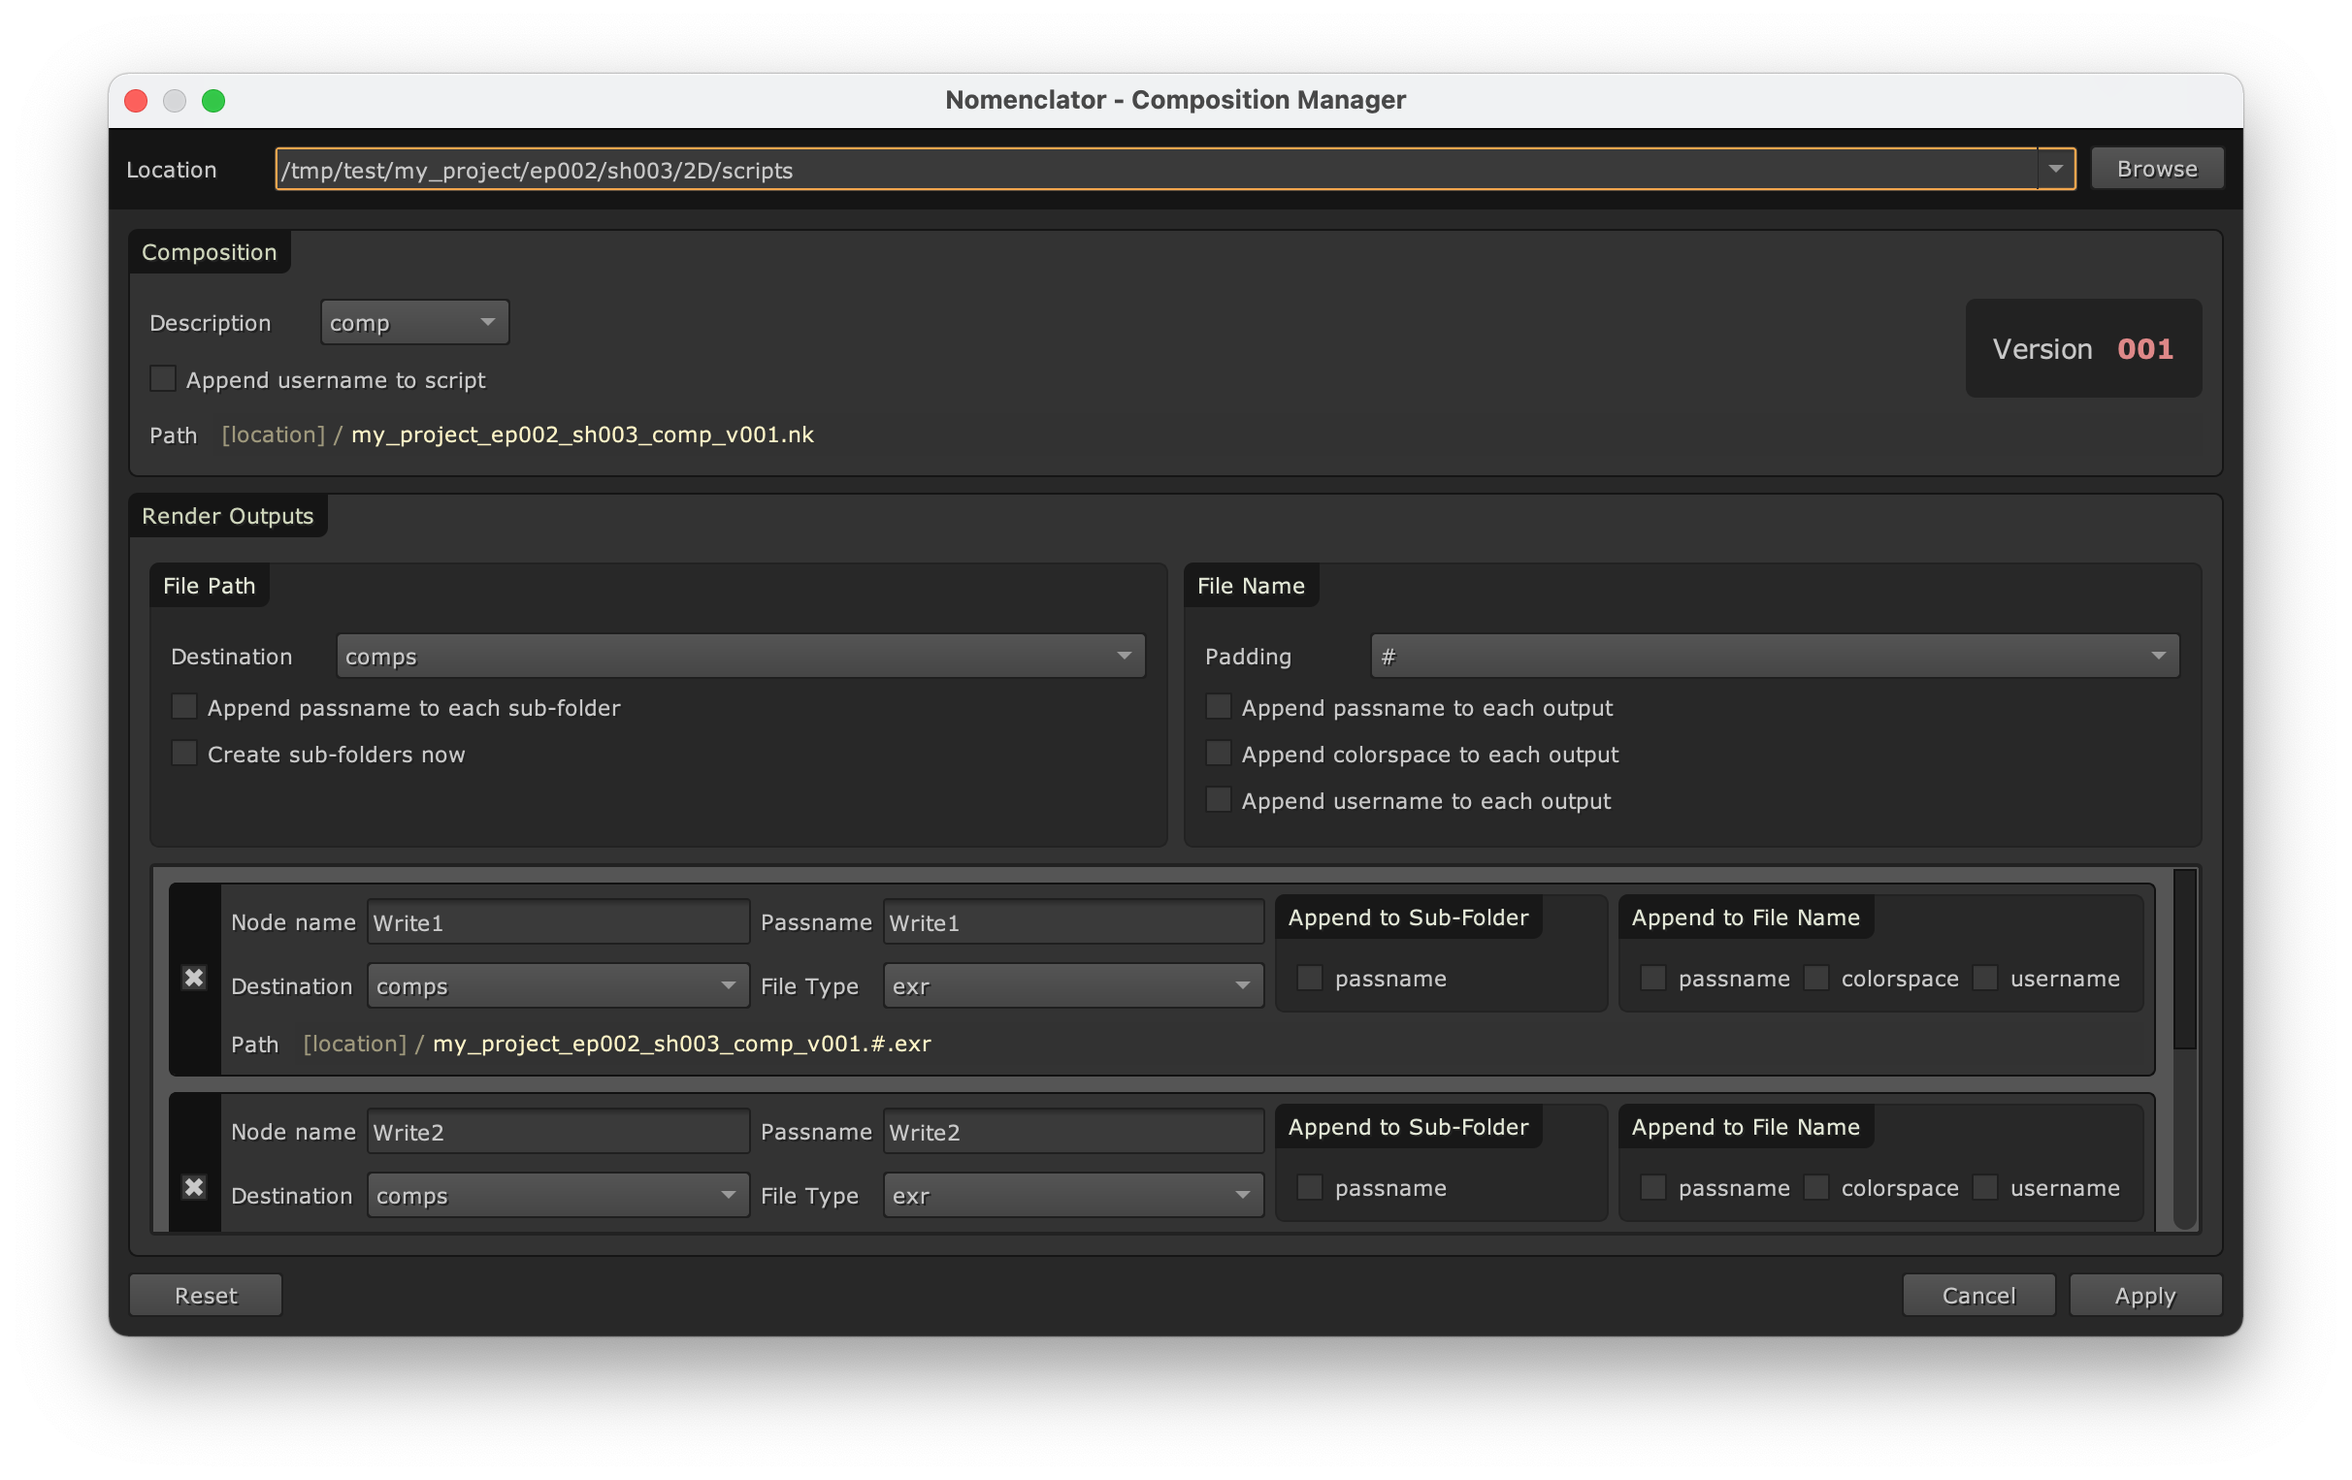
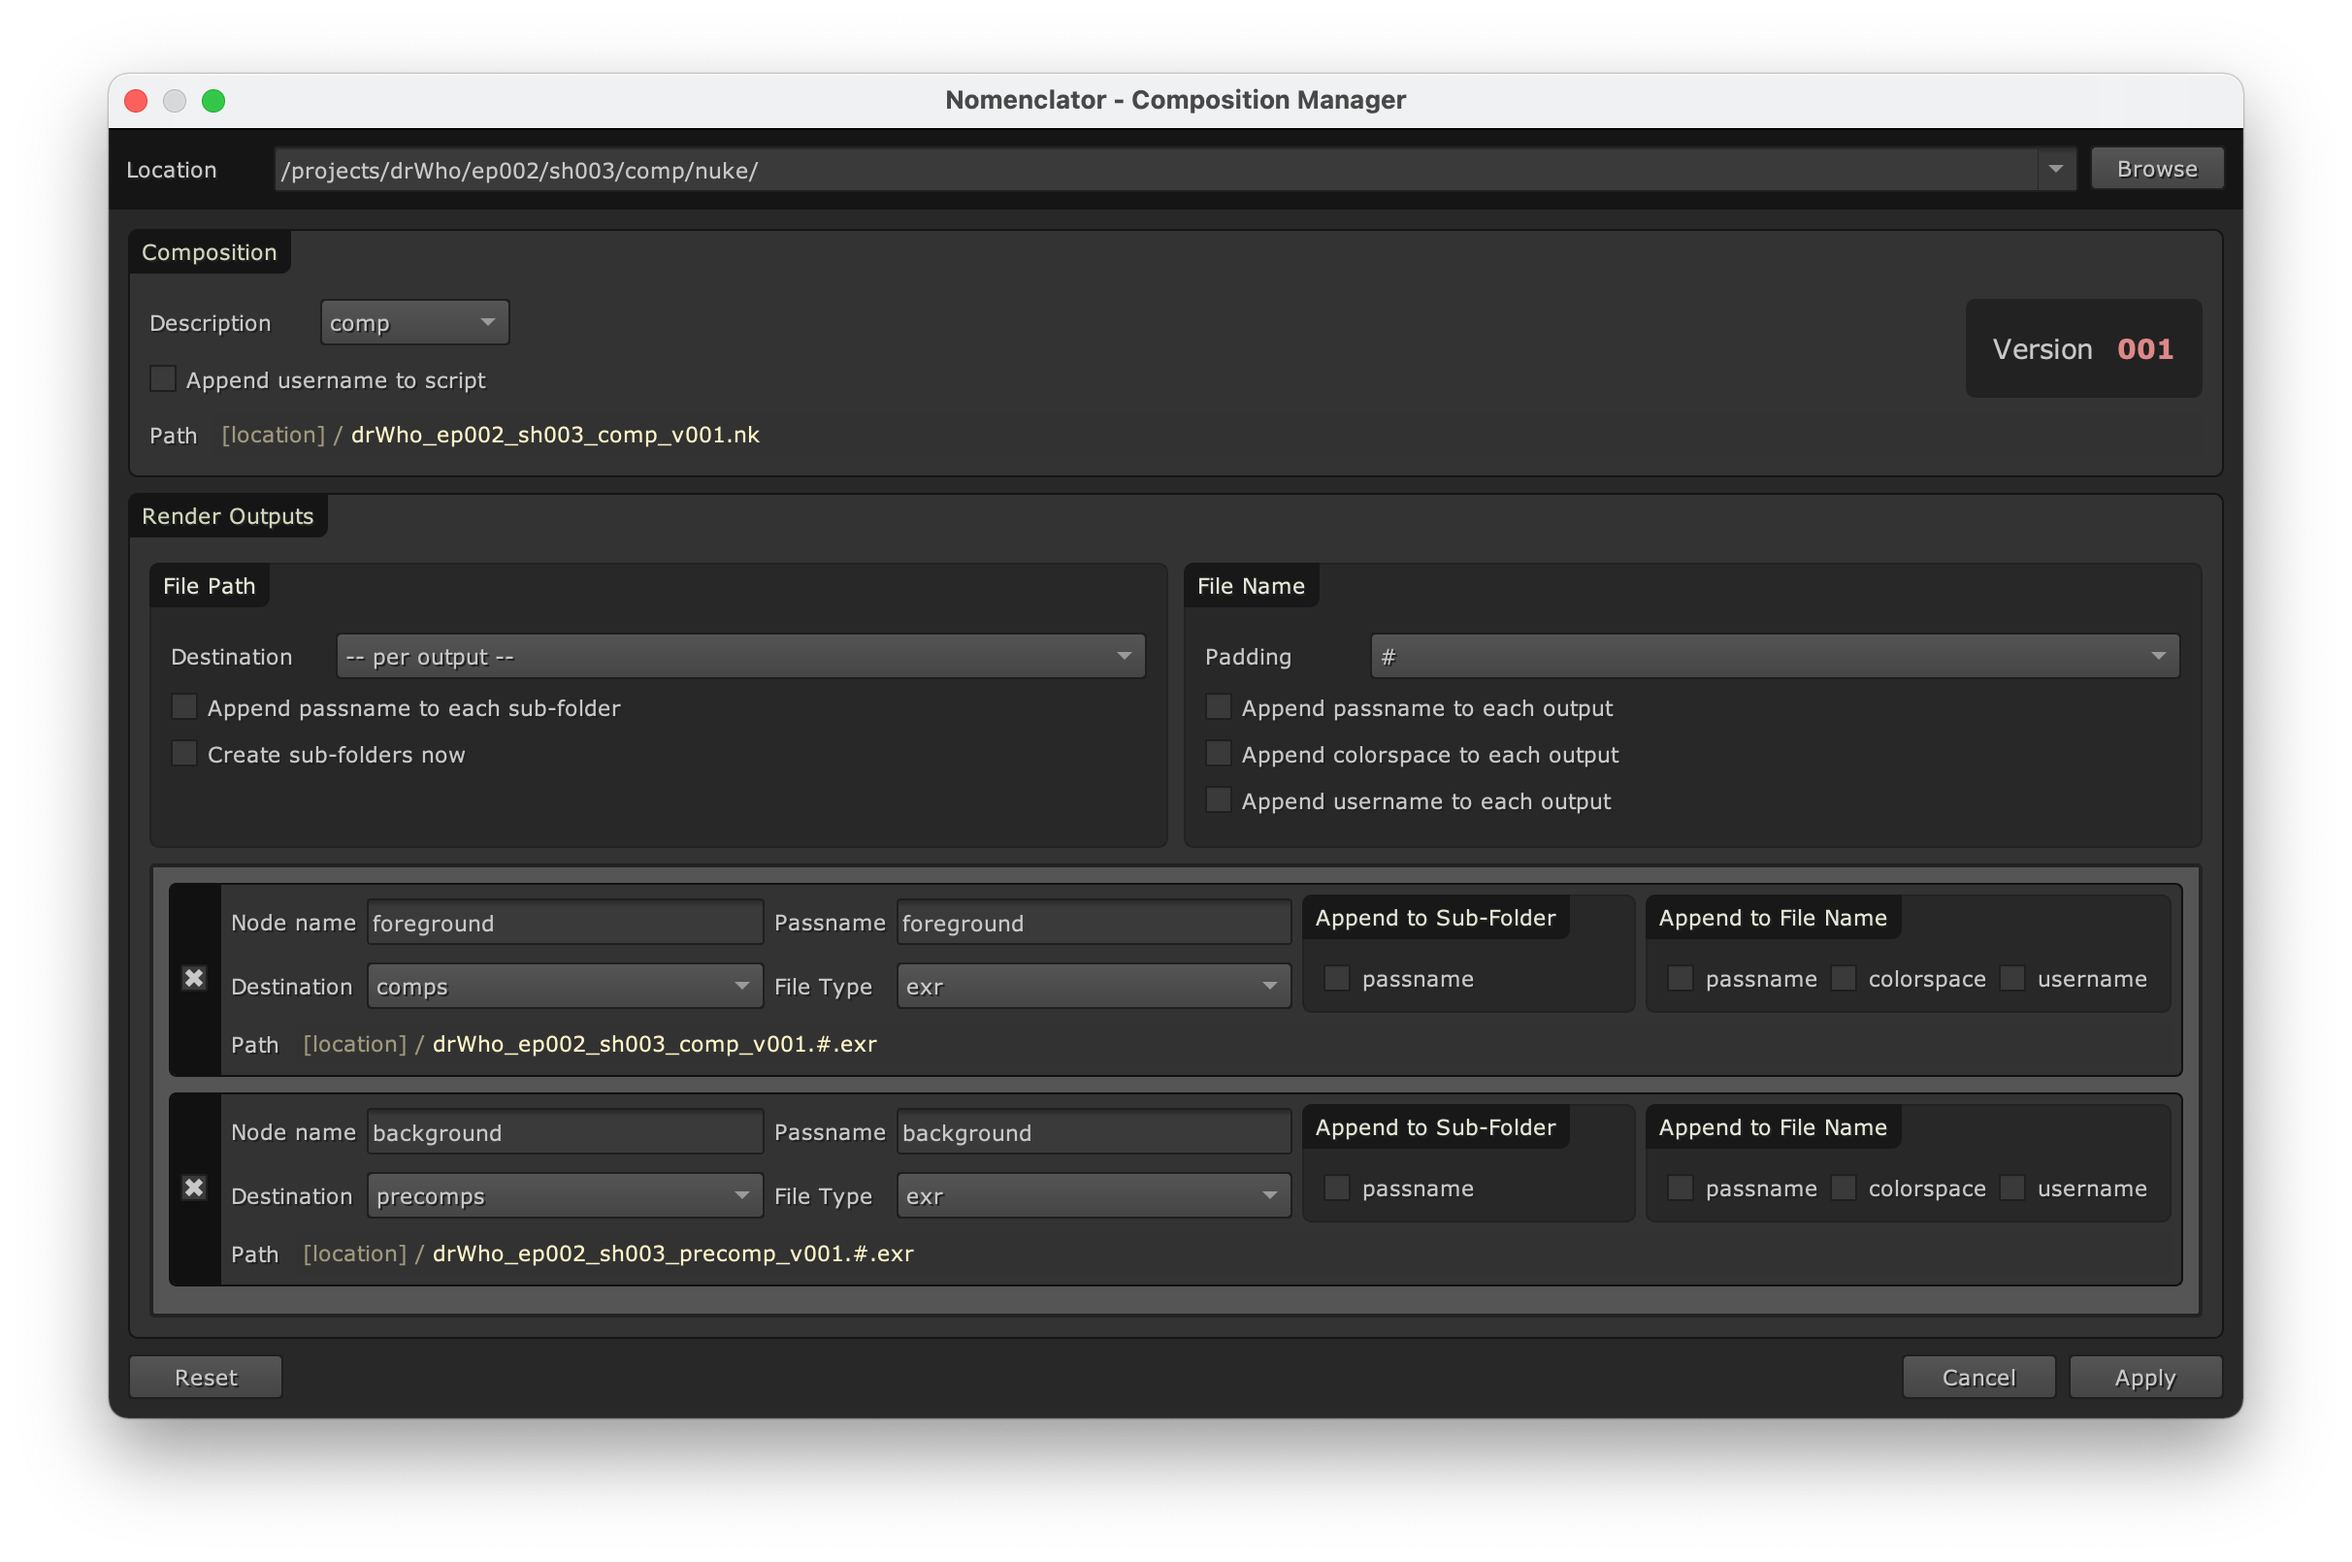
Update tutorial

Changed region(s): [[0.0309, 0.154, 0.9592, 0.924], [0.0309, 0.0616, 0.9592, 0.154], [0.8354, 0.2156, 0.9282, 0.2464]]

diff --git a/doc/tutorial.rst b/doc/tutorial.rst
@@ -13,9 +13,9 @@ and you are working within the following folder structure::
     /projects/
      |- drWho
          |- build
-         |- conform
-         |   |- hiero
          |- ep001
+             |- conform
+             |   |- hiero
              |- sh001
                  |- comp
                      |- nuke
@@ -28,11 +28,11 @@ For instance::
 
     /projects/drWho/ep001/sh001/comp/nuke
 
-There is one :term:`Conforming` task for the entire project. Therefore, the :term:`Hiero`
-project files must be saved at the project level, within the :file:`conform/hiero`
-folder::
+The :term:`Conforming` tasks are broken down in episodes only. For each episode,
+the :term:`Hiero` project files must be saved into the :file:`conform/hiero` folders.
+For instance::
 
-    /projects/drWho/conform/hiero
+    /projects/drWho/ep001/conform/hiero
 
 Instead of hard-coding the project name, we would like to define a naming convention which could
 easily be adapted to a new project which would adopt a similar structure.
@@ -97,12 +97,18 @@ custom regular expression for the ``episode`` and ``shot`` tokens::
     naming convention can be applied to scenes saved in sub-folders, for
     instance::
 
-        /projects/drWho/ep001/sh001/2D/nuke/sub-1/sub-2
+        /projects/drWho/ep001/sh001/comp/nuke/test
 
 This is how the settings dialog should look like:
 
 .. image:: ./image/comp-resolver-2.png
     :alt: Comp Resolver with one template
+
+.. note::
+
+    If more than one comp template is defined, the first matching one will be used.
+
+.. _tutorial/output_templates:
 
 Defining output templates
 -------------------------
@@ -162,15 +168,83 @@ This is how the settings dialog should look like:
 .. image:: ./image/comp-resolver-3.png
     :alt: Comp Resolver with two output templates
 
-Saving the configuration
-------------------------
+.. _tutorial/project_template:
 
-Apply to automatically save the new configuration into :file:`~/.nuke/nomenclator.toml`.
+Defining a project template
+---------------------------
+
+Let's create a :ref:`template <configuration/template>` to define the naming
+convention for the :term:`Conforming` task.
+
+Open the Setting Dialog and click on the "Project Resolvers" tab to create the template.
+
+.. image:: ./image/project-resolver-1.png
+    :alt: Project Resolver Empty
+
+Click on the "+" button on the top-right corner to add a new template which
+is automatically named "Project1".
 
 .. note::
 
-    You could save the configuration into another location by using the
-    :envvar:`NOMENCLATOR_CONFIG_PATH` environment variable.
+    You can edit the name by double clicking on the "Project1" tab. You would
+    then be able to type a new name and click enter to apply it. We will
+    keep the automatic "Project1" name in this tutorial.
+
+We want the :term:`Hiero` project files to be named in the form of::
+
+    drWho_ep001_v001.hrox
+
+Therefore, the :ref:`configuration/template/pattern-base` value should be::
+
+    {project}_{episode}_v{version}
+
+The ``project`` and ``episode`` tokens should be :ref:`extracted <token/extracted>` from
+the folder structure. For instance, let's consider the following location::
+
+    /projects/drWho/ep001/conform/hiero
+
+The resolved tokens should be:
+
+==========  ==============
+Token Name  Resolved Value
+==========  ==============
+project     drWho
+episode     ep001
+==========  ==============
+
+Therefore, the :ref:`configuration/template/pattern-path` value should be::
+
+    /projects/{project}/{episode}/conform/hiero
+
+Like for the :term:`Compositing` tasks, we can prevent any matching error by defining
+custom regular expression for the ``episode`` token::
+
+    /projects/{project}/{episode:ep\d+}/conform/hiero
+
+We will also check the :ref:`configuration/template/append-username-to-name` box so that we
+can automatically add the :ref:`token/default/username` token to the base name.
+
+This is how the settings dialog should look like:
+
+.. image:: ./image/project-resolver-2.png
+    :alt: Project Resolver with one template
+
+.. note::
+
+    If more than one project template is defined, the first matching one will be used.
+
+.. _tutorial/saving:
+
+Saving the configuration
+------------------------
+
+Apply to automatically save the new :ref:`configuration <configuration>` into
+:file:`~/.nuke/nomenclator.toml`.
+
+.. note::
+
+    You could save the configuration into another location when you have writing permissions
+    by using the :envvar:`NOMENCLATOR_CONFIG_PATH` environment variable.
 
 This is how the configuration saved should look like:
 
@@ -182,28 +256,35 @@ This is how the configuration saved should look like:
     You can directly edit the :term:`TOML` configuration and send it to
     a team member to share it.
 
+.. _tutorial/managing-comp:
+
 Managing the composition
 ------------------------
 
 Now you can open a new :term:`Nuke` script and create two Write nodes.
 
-.. image:: ./image/unsaved-comp.png
+.. image:: ./image/comp-1.png
     :alt: Unsaved Comp
 
 Open the Comp Manager Dialog and browse to::
 
-    /projects/my_project/ep002/sh003/2D/scripts/
+    /projects/drWho/ep002/sh003/comp/nuke/
 
 You can see that the names are automatically generated following the naming conventions
 defined in the previous sections.
 
+Rename the "Write1" and "Write2" outputs respectively to "foreground" and "background",
+and rename the passname similarly. Then change the destination of the "background" node
+to "precomps".
+
+This is how the comp manager should look like:
+
 .. image:: ./image/comp-manager-1.png
     :alt: Comp Manager
 
-Change the destination of the "Write2" node to "precomps" and save the
-script by clicking on "Apply". You can now see that the name files have been
-updated:
+Save the script by clicking on "Apply". You can now see that the nodes and name files have
+been updated:
 
-.. image:: ./image/saved-comp.png
+.. image:: ./image/comp-2.png
     :alt: Saved Comp
 
